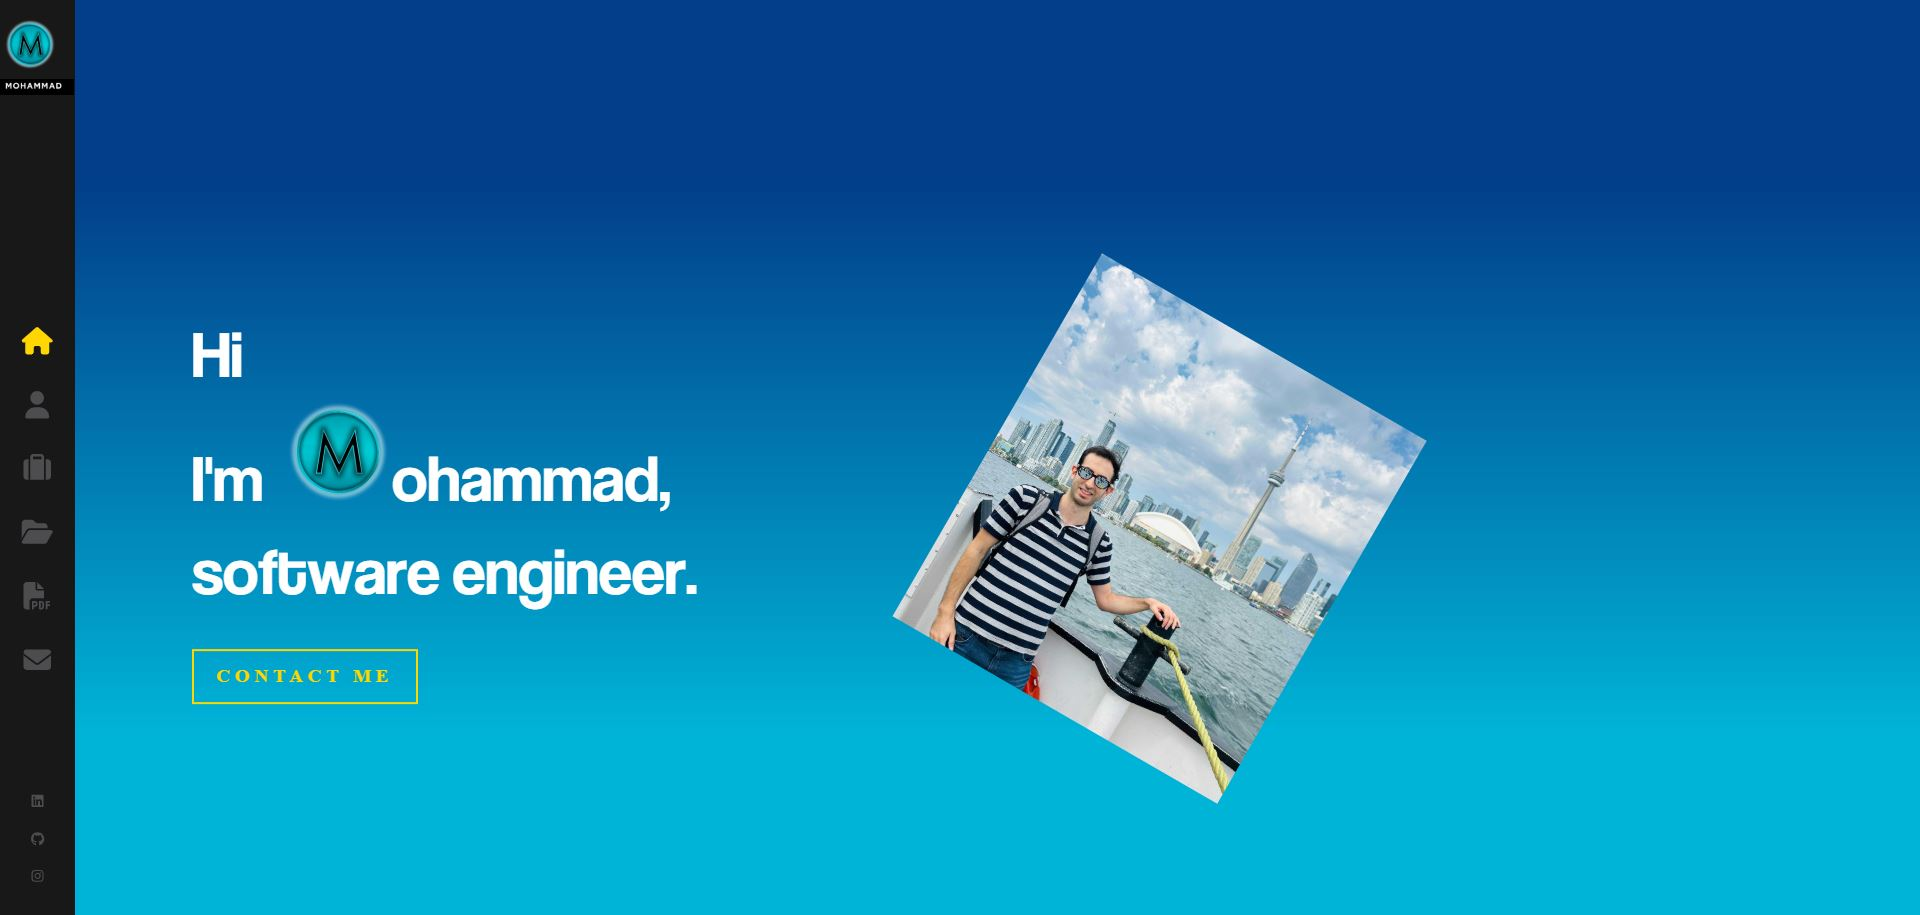
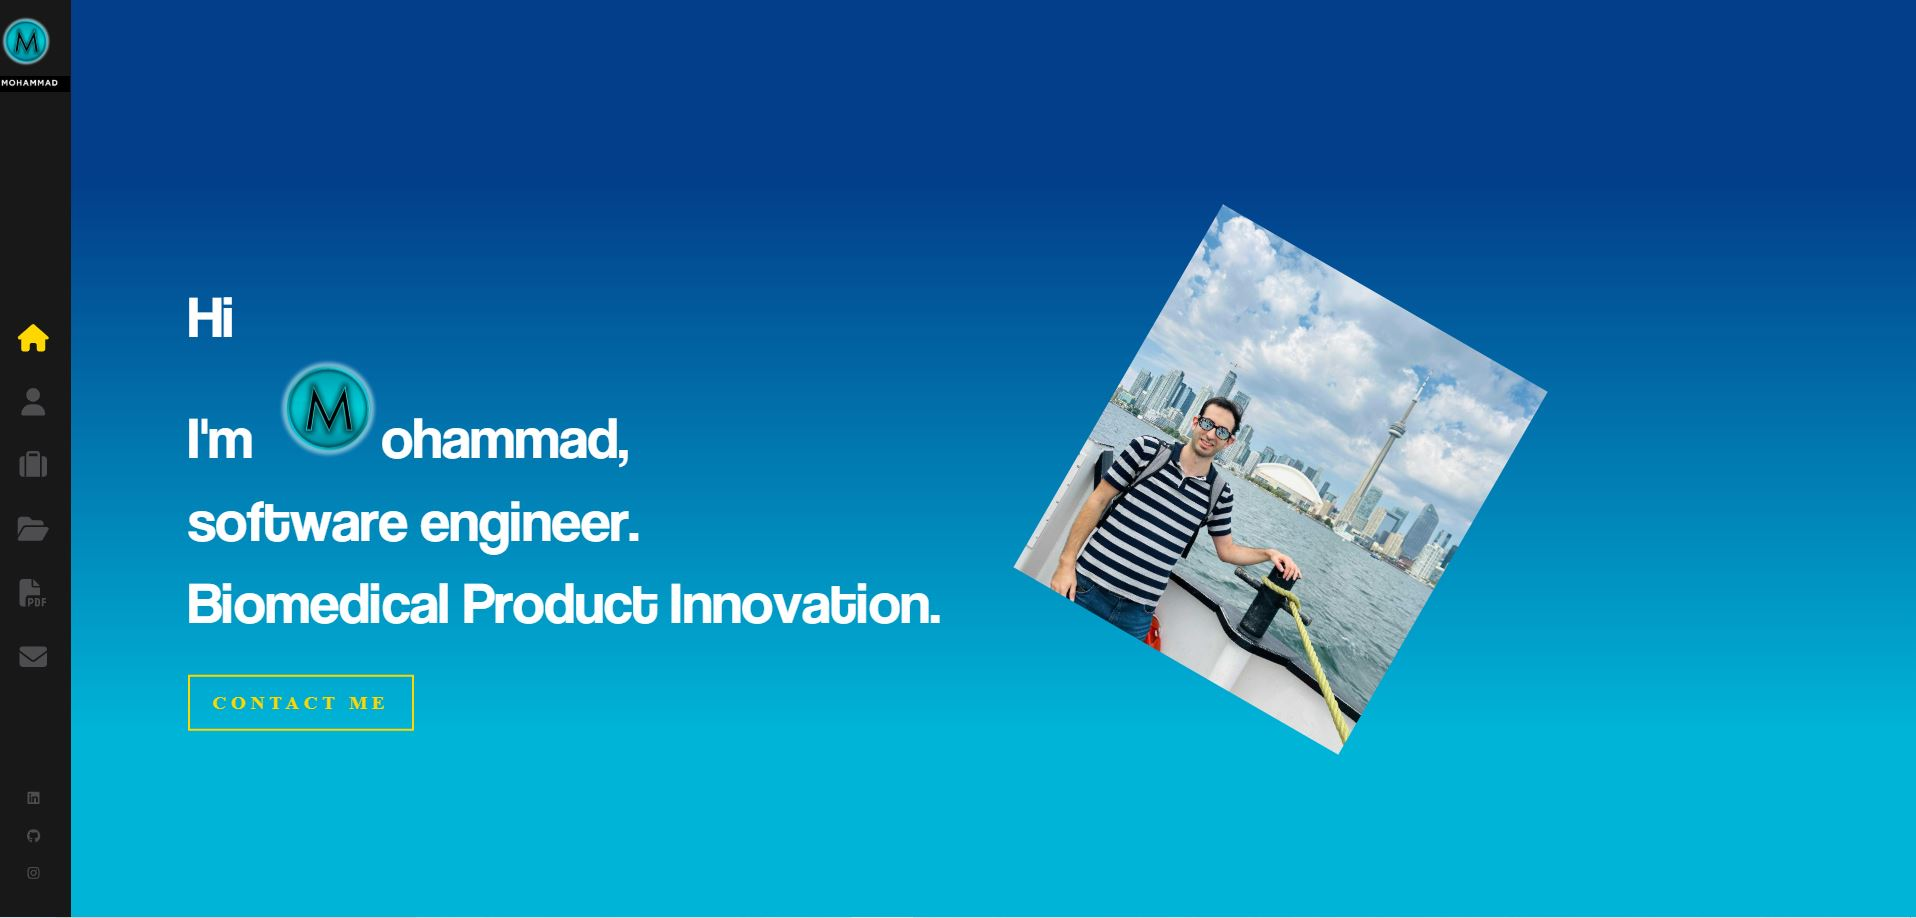
updated

diff --git a/src/components/Home/index.js b/src/components/Home/index.js
@@ -9,8 +9,8 @@ import Logo from './Logo';
 const Home = () => {
     const [letterClass, setLetterClass] = useState('text-animate')
     const nameArray = "ohammad, ".split("");
-    const jobArray = "Software Engineer \nBiomedical Product Innovation".split("");
-
+    const jobArray1 = "software engineer.".split("");
+    const jobArray2 = "Biomedical Product Innovation.".split("");
     useEffect(() => {
         const timerId = setTimeout(() => {
           setLetterClass('text-animate-hover');
@@ -34,7 +34,9 @@ const Home = () => {
                 <img src={LogoE} alt = "developer" />
                 <AnimatedLetters letterClass={letterClass} strArray={nameArray} idx={12} />
                 <br /> 
-                <AnimatedLetters letterClass={letterClass} strArray={jobArray} idx={15} /> 
+                <AnimatedLetters letterClass={letterClass} strArray={jobArray1} idx={15} /> 
+                <br />
+                <AnimatedLetters letterClass={letterClass} strArray={jobArray2} idx={15}/>
                 </h1>
                 
                 <Link to="/contact" className="flat-button">CONTACT ME</Link>

diff --git a/src/components/Home/index.scss b/src/components/Home/index.scss
@@ -9,7 +9,7 @@
     }
     h1{
         color: #fff; 
-        font-size: 53px; 
+        font-size: 47px; 
         margin: 0; 
         font-family: "Coolvetica"; 
         font-weight: 400; 
@@ -48,7 +48,7 @@
         color: #ade8f4; 
         margin-top: 20px; 
         font-weight: 500; 
-        font-size: 8px; 
+        font-size: 11px; 
         font-family: sans-serif; 
         letter-spacing: 3px; 
         animation: fadeIn 1s 1.8s backwards; 

diff --git a/src/components/Home/Logo/index.scss b/src/components/Home/Logo/index.scss
@@ -4,10 +4,10 @@
   height: 300px;
   opacity: 1;
   position: absolute;
-  top: 0;
+  top: -10%;
   right: 15%;
   bottom: 0;
-  left: 550px;
+  left: 750px;
   margin: auto;
   animation: bounce 8s ease-in-out;
 
